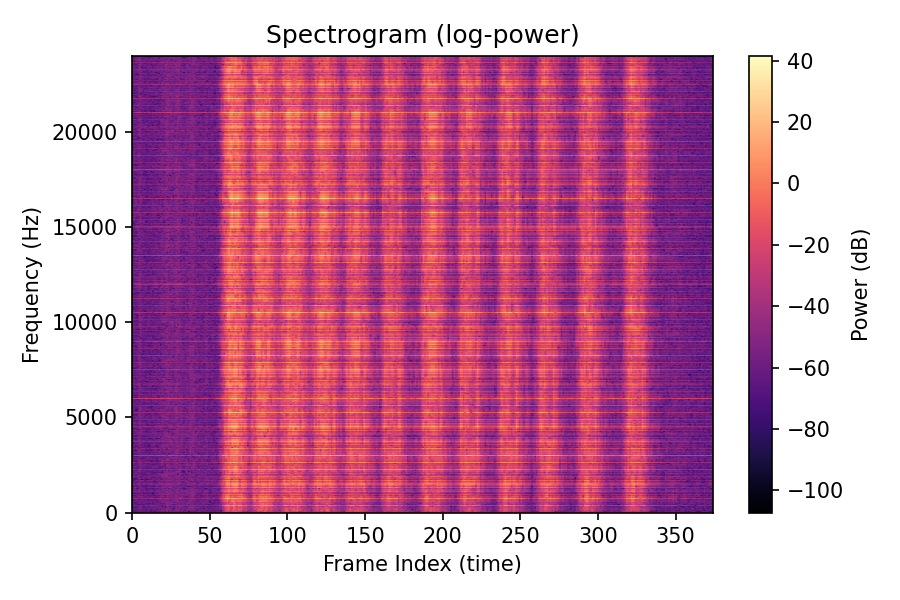
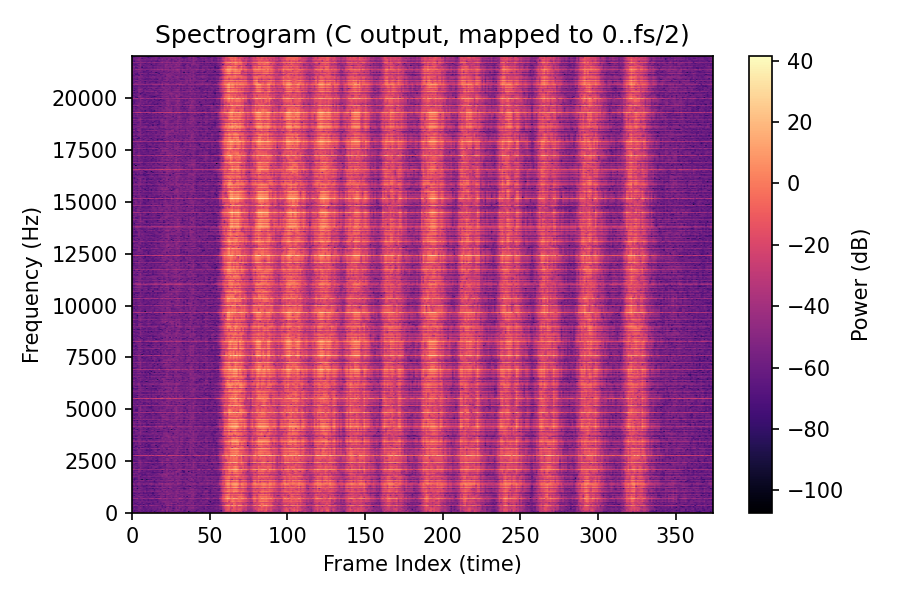
wth is going on

diff --git a/plot_2.py b/plot_2.py
@@ -1,0 +1,38 @@
+import numpy as np
+import matplotlib.pyplot as plt
+
+num_frames = 374  # ← exactly what C printed
+N = 1024
+fs = 44100       # ← same sample rate you read via dr_wav
+
+# 1) load the full 1024‐bin spectrogram
+spec = np.fromfile("spectrogram.bin", dtype=np.float32)
+spec = spec.reshape((num_frames, N))
+
+# 2) keep only bins 0..511 (positive frequencies)
+half = N // 2
+spec_half = spec[:, :half]               # shape = (num_frames, 512)
+
+# 3) convert to dB
+spec_db = 10 * np.log10(spec_half + 1e-12)
+
+# 4) transpose so that rows→frequency, cols→time
+spec_db_plot = spec_db.T                 # shape = (512, num_frames)
+
+# 5) plot with 0…fs/2 on y‐axis
+plt.figure(figsize=(6, 4))
+plt.imshow(
+    spec_db_plot,
+    origin='lower',
+    aspect='auto',
+    cmap='magma',
+    extent=[0, num_frames, 0, fs/2]
+)
+plt.colorbar(label='Power (dB)')
+plt.xlabel('Frame Index (time)')
+plt.ylabel('Frequency (Hz)')
+plt.title('Spectrogram (C output, mapped to 0..fs/2)')
+plt.tight_layout()
+# plt.show()
+plt.savefig("spectrogram_hz.png", dpi=150)
+
